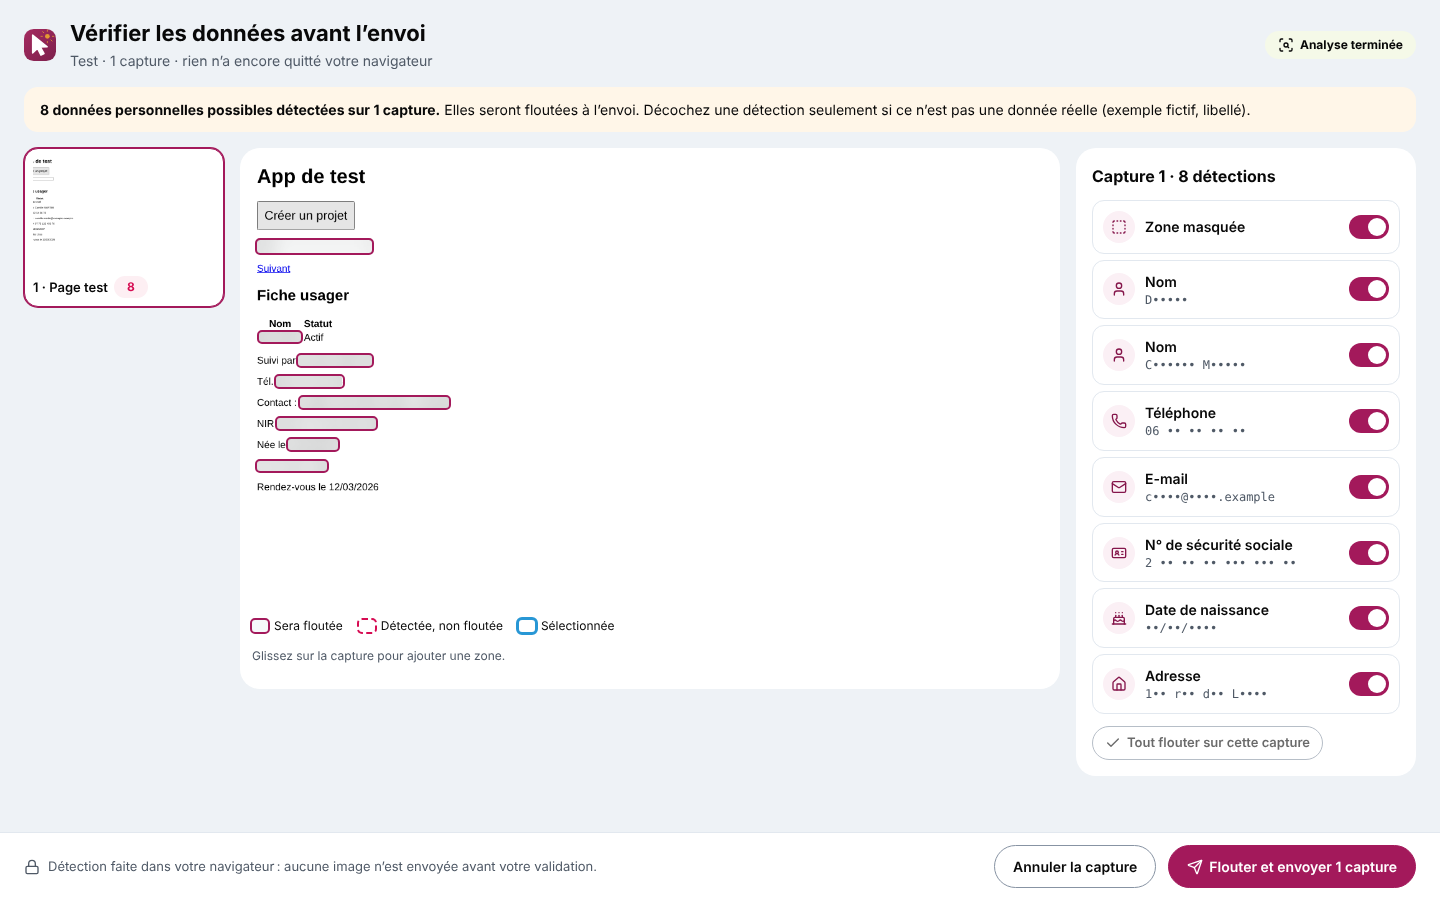
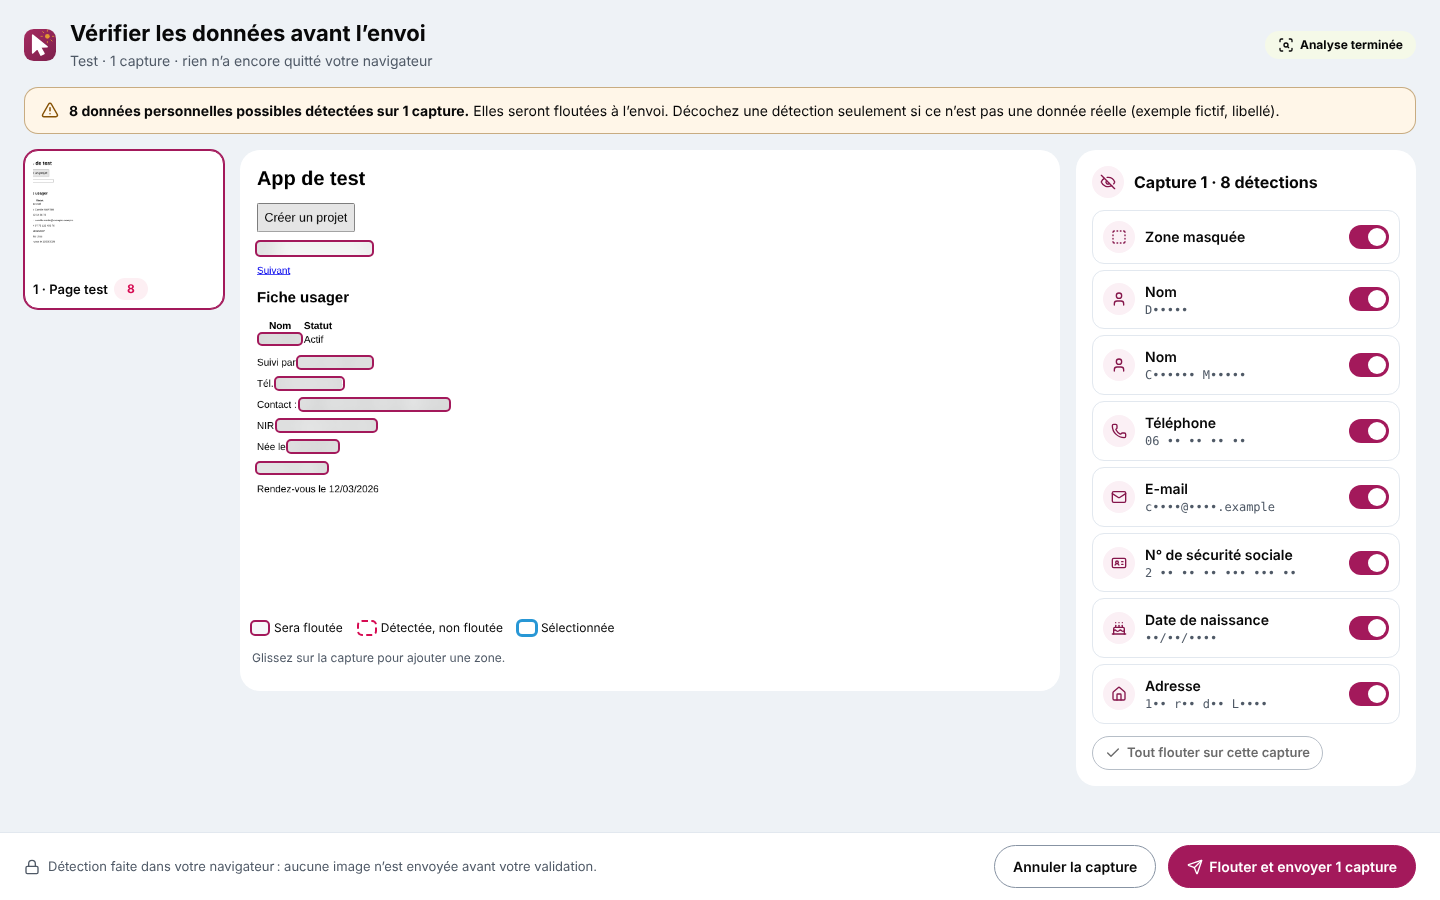
F1-01 (retours) : icône et bordure du bandeau d'alerte, pastille œil barré, phrase des détections non floutées accordée
Claude-Session: https://claude.ai/code/session_016yn81ZxTg2ruYKp45zgJVh

diff --git a/apps/extension/entrypoints/review/main.ts b/apps/extension/entrypoints/review/main.ts
@@ -9,8 +9,10 @@ import {
   KeyRound,
   Landmark,
   Lock,
+  EyeOff,
   Mail,
   Phone,
+  TriangleAlert,
   ScanSearch,
   Send,
   SquareDashed,
@@ -90,7 +92,7 @@ async function boot() {
   $('confirm-yes').textContent = tr('cancelYes');
   $('state-text').textContent = tr('analyzing');
   createIcons({
-    icons: { Lock, Check, Send, Scan: ScanSearch },
+    icons: { Lock, Check, Send, Scan: ScanSearch, EyeOff },
     attrs: { width: 16, height: 16, 'aria-hidden': 'true' },
   });
 
@@ -117,6 +119,7 @@ async function boot() {
   sum.hidden = false;
   sum.className = `rv-alert ${total ? 'rv-alert--warning' : 'rv-alert--info'}`;
   sum.replaceChildren(
+    ...(total ? [icon(TriangleAlert, 18)] : []),
     total
       ? h(
           'p',
@@ -249,9 +252,11 @@ function renderPanel() {
   // FL-5 : phrase qui nomme les détections non floutées (« ne seront pas floutées », « pas » en gras)
   $('warning').hidden = off.length === 0;
   const list = new Intl.ListFormat(document.documentElement.lang, { type: 'conjunction' }).format(off);
-  const [before, after] = (off.length ? tr('notBlurredWarning', { types: list, not: '{{not}}' }) : '').split(
-    '{{not}}',
-  );
+  const [before, after] = (
+    off.length
+      ? tr('notBlurredWarning', { types: list, not: '{{not}}', count: c.zones.filter((z) => !z.blur).length })
+      : ''
+  ).split('{{not}}');
   $('warning').replaceChildren(before ?? '', ...(after !== undefined ? [h('b', {}, tr('not')), after] : []));
   ($('blur-all') as HTMLButtonElement).disabled = c.zones.every((z) => z.blur);
 }

diff --git a/apps/extension/lib/reviewStrings.ts b/apps/extension/lib/reviewStrings.ts
@@ -25,7 +25,10 @@ const fr = {
   legendSelected: 'Sélectionnée',
   zoneBlurred: '{{type}}, floutée',
   zoneNotBlurred: '{{type}}, non floutée',
-  notBlurredWarning: '{{types}} ne seront {{not}} floutés. Vérifiez qu’il s’agit bien de données fictives.',
+  notBlurredWarning_one:
+    'Cette détection ne sera {{not}} floutée : {{types}}. Vérifiez qu’il s’agit bien d’une donnée fictive.',
+  notBlurredWarning_other:
+    'Ces détections ne seront {{not}} floutées : {{types}}. Vérifiez qu’il s’agit bien de données fictives.',
   not: 'pas',
   privacy: 'Détection faite dans votre navigateur : aucune image n’est envoyée avant votre validation.',
   cancel: 'Annuler la capture',
@@ -75,7 +78,9 @@ const en: typeof fr = {
   legendSelected: 'Selected',
   zoneBlurred: '{{type}}, blurred',
   zoneNotBlurred: '{{type}}, not blurred',
-  notBlurredWarning: '{{types}} will {{not}} be blurred. Make sure this is fictional data.',
+  notBlurredWarning_one: 'This detection will {{not}} be blurred: {{types}}. Make sure it is fictional data.',
+  notBlurredWarning_other:
+    'These detections will {{not}} be blurred: {{types}}. Make sure this is fictional data.',
   not: 'not',
   privacy: 'Detection runs in your browser: no image is sent before you confirm.',
   cancel: 'Discard capture',

diff --git a/apps/extension/entrypoints/review/style.css b/apps/extension/entrypoints/review/style.css
@@ -468,3 +468,38 @@ dialog::backdrop {
 #blur-all {
   align-self: flex-start;
 }
+/* F1-01 (retours) : bandeau d'alerte avec icône et bordure orange, pastille œil barré du panneau */
+.rv-alert--warning {
+  display: flex;
+  gap: 10px;
+  align-items: flex-start;
+  border: 1px solid color-mix(in srgb, var(--fd-color-warning, #c27a00) 45%, transparent);
+}
+.rv-alert--warning > svg {
+  flex: none;
+  margin-top: 1px;
+  color: var(--fd-color-warning, #c27a00);
+}
+.rv-panel__head {
+  display: flex;
+  align-items: center;
+  gap: 10px;
+  margin-bottom: 12px;
+}
+.rv-panel__head h2 {
+  margin: 0;
+}
+.rv-panel__chip {
+  flex: none;
+  display: inline-grid;
+  place-items: center;
+  width: 32px;
+  height: 32px;
+  border-radius: 999px;
+  background: var(--fd-color-primary-soft, #fbe8f0);
+  color: var(--fd-color-primary-soft-text, #8a1450);
+}
+.rv-panel__chip svg {
+  width: 16px;
+  height: 16px;
+}

diff --git a/apps/extension/entrypoints/review/index.html b/apps/extension/entrypoints/review/index.html
@@ -30,7 +30,10 @@
           <p class="muted small" id="add-hint"></p>
         </section>
         <aside class="rv-panel">
-          <h2 id="panel-title"></h2>
+          <div class="rv-panel__head">
+            <span class="rv-panel__chip" aria-hidden="true"><i data-lucide="eye-off"></i></span>
+            <h2 id="panel-title"></h2>
+          </div>
           <ul id="zones" class="rv-zones"></ul>
           <p id="warning" class="rv-help rv-help--warn" hidden></p>
           <button id="blur-all" class="btn btn-sm" type="button">
